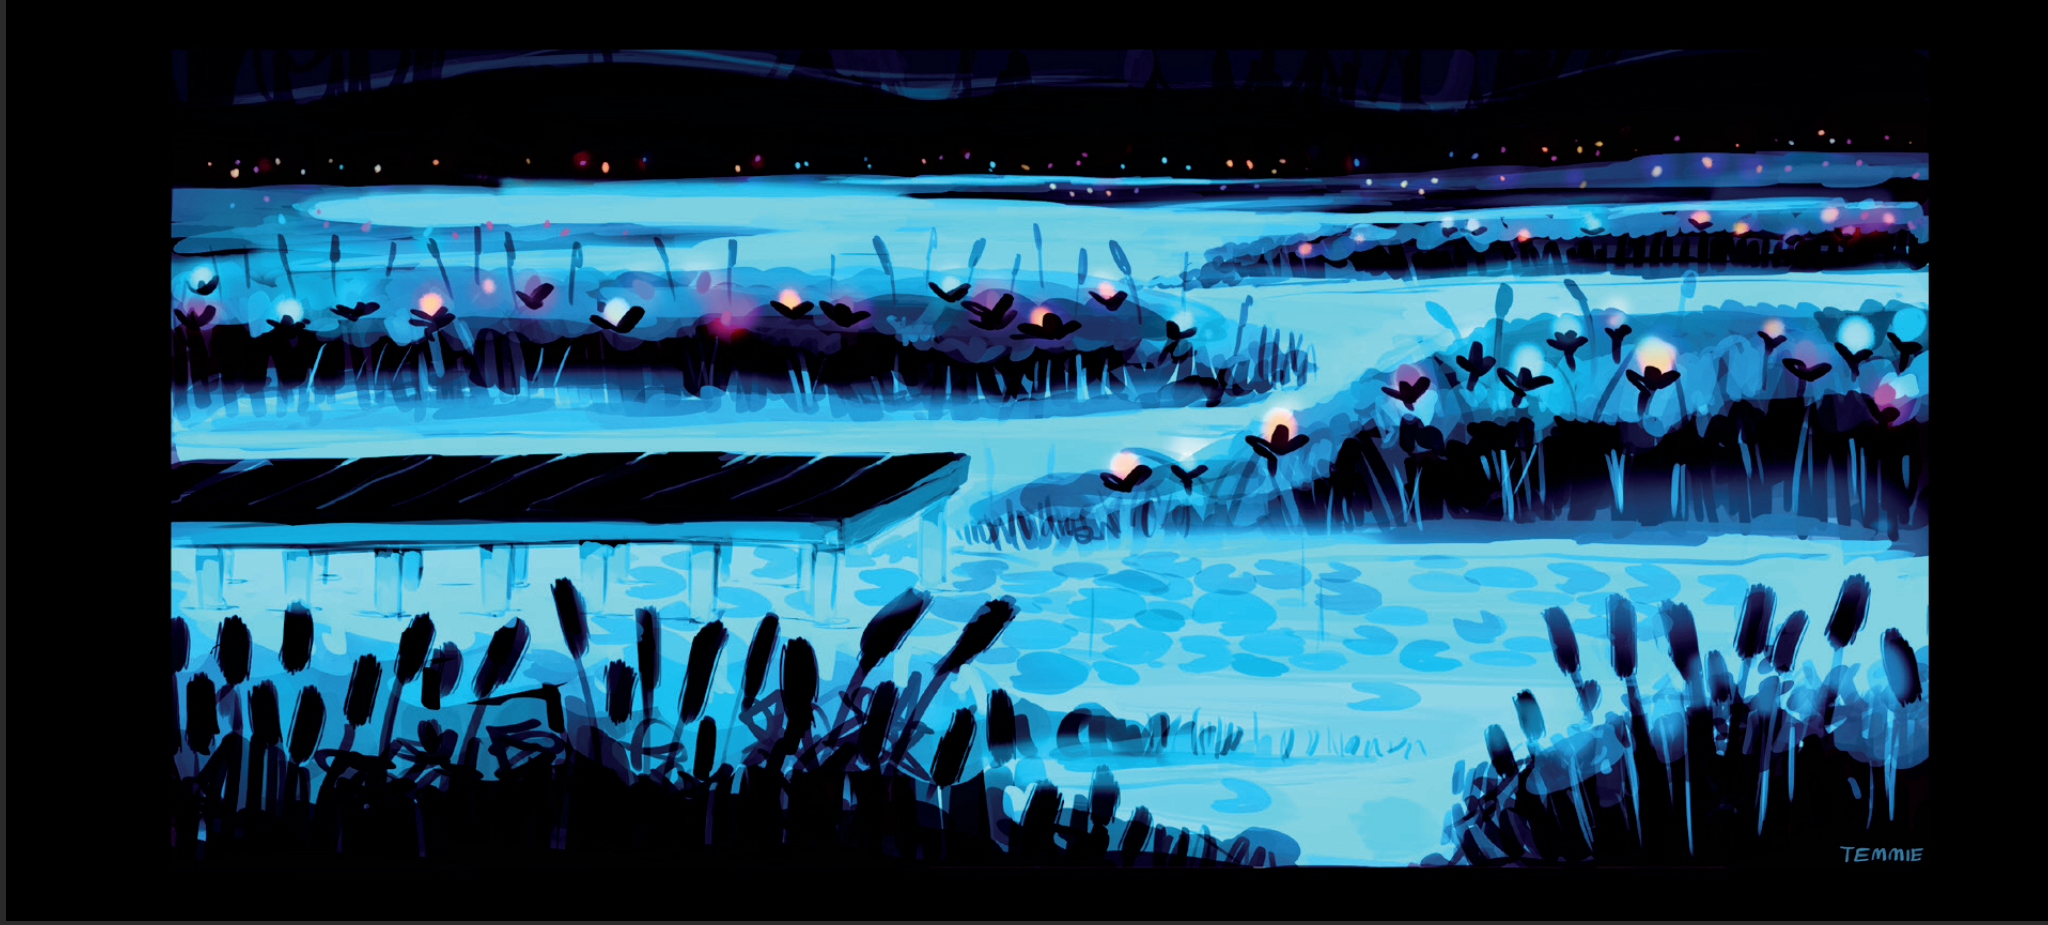
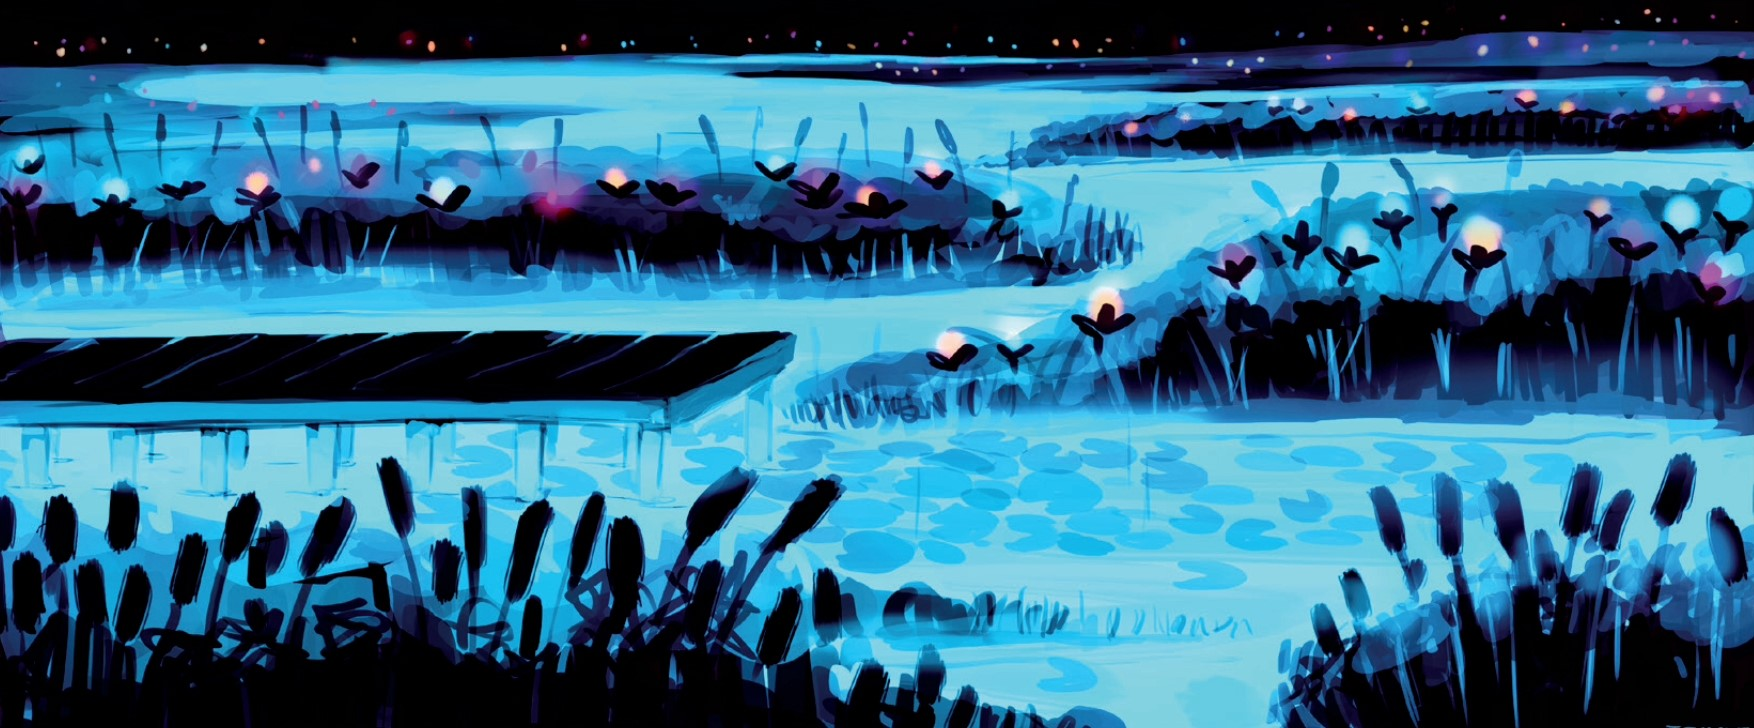
so arrumar o chao

diff --git a/spedruin/MainPage.xaml b/spedruin/MainPage.xaml
@@ -9,27 +9,40 @@
 <HorizontalStackLayout x:Name="HS1"
 VerticalOptions="Start">
     <Image
-        Source="fundo.jpg"
+        Source="fundo3.jpg"
          HorizontalOptions="Fill"
          VerticalOptions="Fill"/>
     <Image
-        Source="fundo.jpg"
+        Source="fundo3.jpg"
          HorizontalOptions="Fill"
          VerticalOptions="Fill"/>
     <Image
-        Source="fundo.jpg"
+        Source="fundo3.jpg"
+         HorizontalOptions="Fill"
+         VerticalOptions="Fill"/>
+    <Image
+        Source="fundo3.jpg"
          HorizontalOptions="Fill"
          VerticalOptions="Fill"/>
 </HorizontalStackLayout>
 
 <HorizontalStackLayout x:Name="HS2"
-VerticalOptions="Center">
+VerticalOptions="Start">
     <Image
-        Source="castelo.jpg"
+        Source="arvores1.png"
          HorizontalOptions="Fill"
-         HeightRequest="200"
-         Margin="0,0,0,10"
-         VerticalOptions="Start"/>
+         HeightRequest="1000"
+         VerticalOptions="Fill"/>
+    <Image
+        Source="arvores1.png"
+         HorizontalOptions="Fill"
+         HeightRequest="1000"
+         VerticalOptions="Fill"/>
+    <Image
+        Source="arvores1.png"
+         HorizontalOptions="Fill"
+         HeightRequest="1000"
+         VerticalOptions="Fill"/>
 </HorizontalStackLayout>
 
 <HorizontalStackLayout x:Name="HS3"

diff --git a/spedruin/MainPage.xaml.cs b/spedruin/MainPage.xaml.cs
@@ -1,13 +1,15 @@
-namespace spedruin;
+
+
+namespace spedruin;
 
 public partial class MainPage : ContentPage
 {
 bool Estamorto=false;
 bool EStarpulando=false;
 const int TempoEntreFrames=25;
-int velo1=0;
-int velo2=0;
-int velo3=0;
+int velo1=1;
+int velo2=2;
+int velo3=3;
 int velo=0;
 int LarguraDaJanela=0;
 int AlturaDaJanela=0;
@@ -17,6 +19,10 @@ int AlturaDaJanela=0;
 		InitializeComponent();
 	}
 
+ 
+
+   
+   
   protected override void OnSizeAllocated(double w, double h)
    {
      base.OnSizeAllocated(w, h);
@@ -35,19 +41,57 @@ void CalculaVelo(double w)
 void CorrigeTamanhoCenario(double w, double h)
 {
 	foreach(var A in HS1.Children)
-	(A as Imagre).WidthRequest=w;
+	(A as Image).WidthRequest=w;
 
 	foreach(var A in HS2.Children)
-	(A as Imagre).WidthRequest=w;
+	(A as Image).WidthRequest=w;
 
 	foreach(var A in HS3.Children)
-	(A as Imagre).WidthRequest=w;
+	(A as Image).WidthRequest=w;
 
 	HS1.WidthRequest=w*1.5;
 	HS2.WidthRequest=w*1.5;
 	HS3.WidthRequest=w*1.5;
-
 }
+
+	  protected override void OnAppearing()
+    {
+        base.OnAppearing();
+		Desenhar();
+    }
+
+	async Task Desenhar()
+  {
+	while(!Estamorto)
+	{
+		GerenciaCenas();
+		await Task.Delay(TempoEntreFrames);	
+	}
+  }
+
+ void GerenciaCenas()
+ {
+	MoveCena();
+	GerenciaCena(HS1);
+	GerenciaCena(HS2);
+	GerenciaCena(HS3);
+ }
+ void MoveCena()
+ {
+	HS1.TranslationX-=velo1;
+	HS2.TranslationX-=velo2;
+	HS3.TranslationX-=velo3;
+ }
+ void GerenciaCena(HorizontalStackLayout hsl)
+ {
+	var view =(hsl.Children.First()as Image);
+	if(view.WidthRequest + hsl.TranslationX < 0)
+	{
+		hsl.Children.Remove(view);
+		hsl.Children.Add(view);
+		hsl.TranslationX=view.TranslationX;
+	}
+ }
 
 }
 
